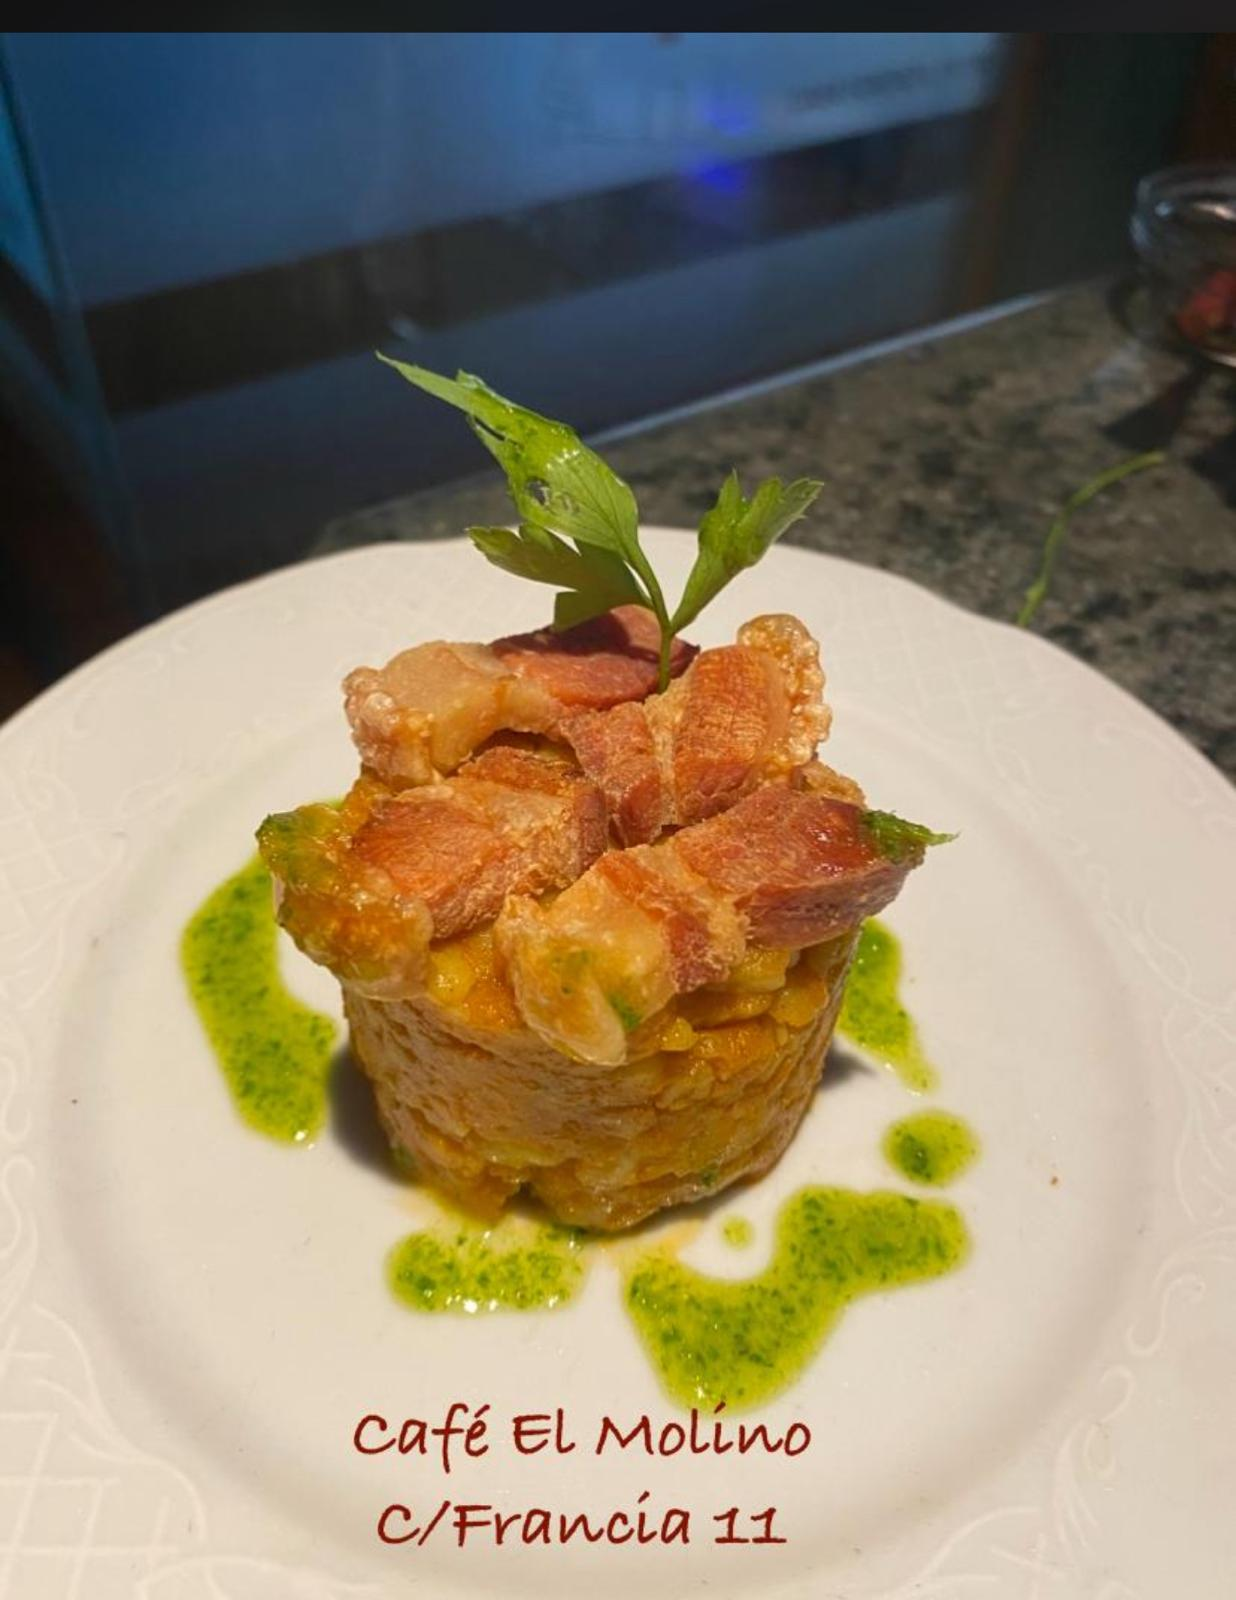
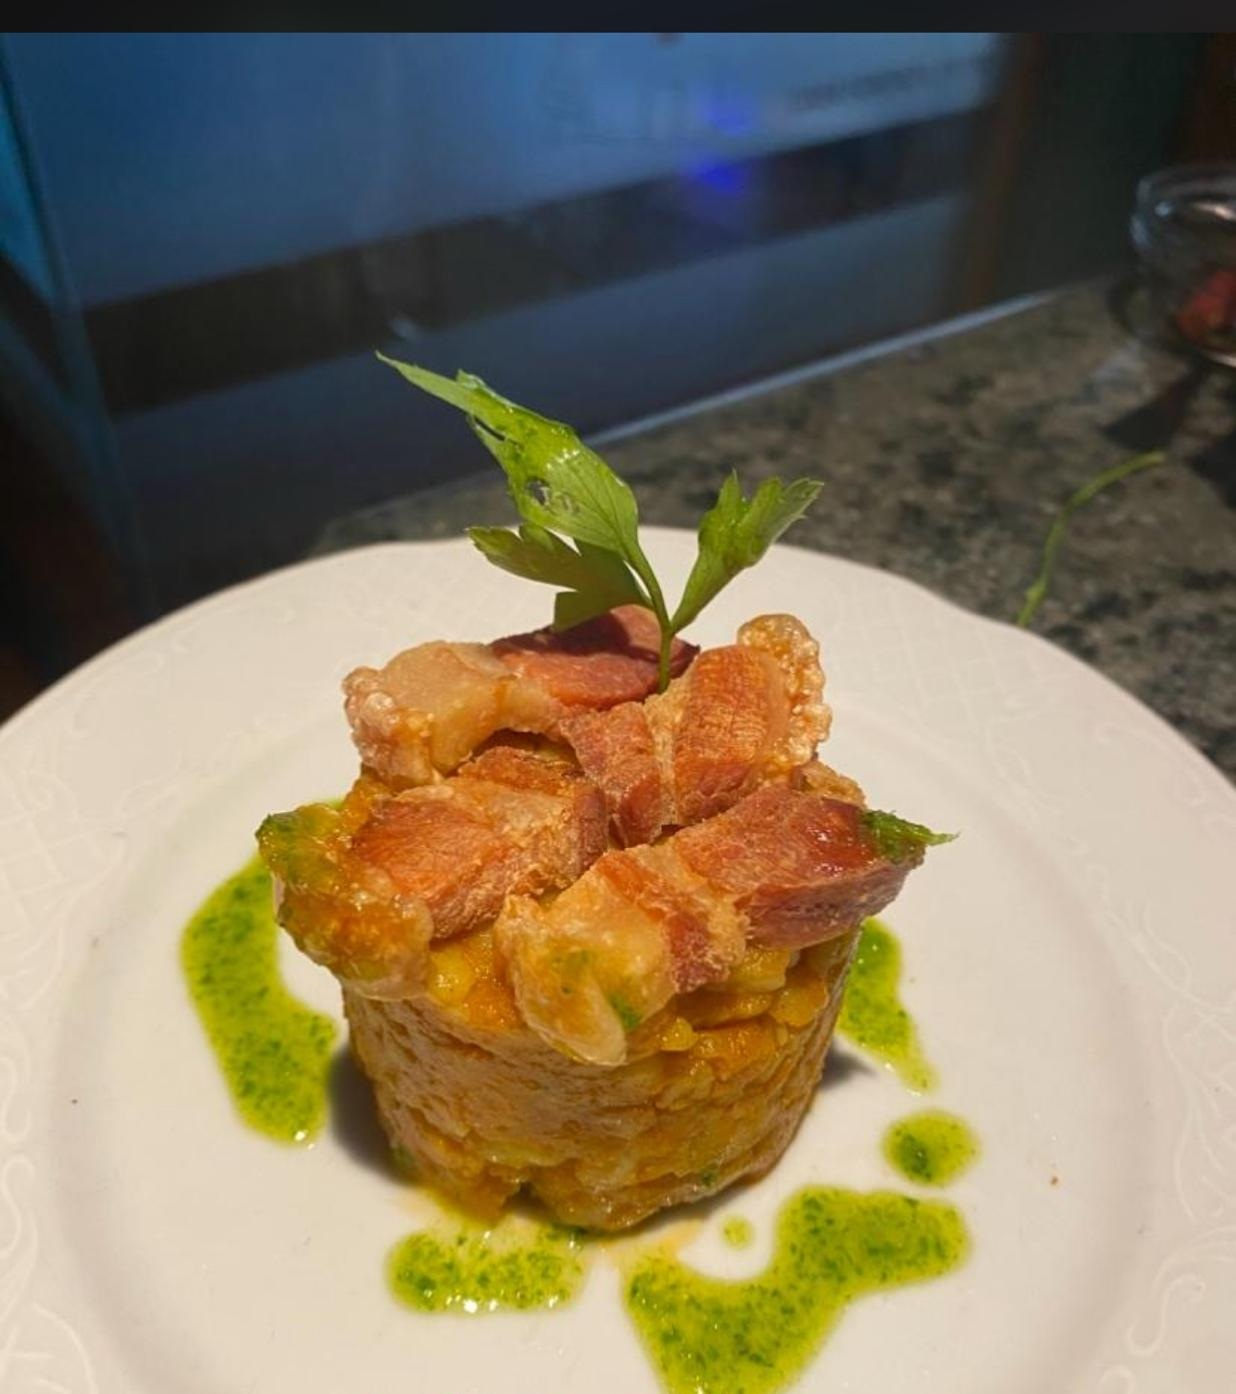
feat: implement SafeImage component with automatic fallback error handling to prevent broken image crashes

diff --git a/src/components/SafeImage.tsx b/src/components/SafeImage.tsx
@@ -1,0 +1,38 @@
+import { useState, ImgHTMLAttributes } from "react";
+import fallbackLogo from "@/assets/nuevas-fotos/WhatsApp Image 2026-07-16 at 14.41.48 (3).jpeg";
+
+interface SafeImageProps extends ImgHTMLAttributes<HTMLImageElement> {
+  fallbackSrc?: string;
+}
+
+export function SafeImage({
+  src,
+  alt = "Cafetería El Molino",
+  fallbackSrc,
+  className = "",
+  onError,
+  ...props
+}: SafeImageProps) {
+  const [imgSrc, setImgSrc] = useState<string>(src || fallbackSrc || fallbackLogo);
+  const [hasError, setHasError] = useState(false);
+
+  const handleError = (e: React.SyntheticEvent<HTMLImageElement, Event>) => {
+    if (!hasError) {
+      setHasError(true);
+      setImgSrc(fallbackSrc || fallbackLogo);
+    }
+    if (onError) {
+      onError(e);
+    }
+  };
+
+  return (
+    <img
+      src={imgSrc || fallbackLogo}
+      alt={alt}
+      onError={handleError}
+      className={className}
+      {...props}
+    />
+  );
+}

diff --git a/src/routes/galeria.tsx b/src/routes/galeria.tsx
@@ -8,6 +8,7 @@ import {
   Camera
 } from "lucide-react";
 import { Reveal } from "@/components/Reveal";
+import { SafeImage } from "@/components/SafeImage";
 
 // Importación de assets locales
 import realVideo from "@/assets/nuevas-fotos/WhatsApp Video 2026-07-16 at 14.51.56.mp4";
@@ -376,16 +377,7 @@ const mediaItems: MediaItem[] = [
     category: "equipo",
     src: realImg_33,
     aspectRatio: "aspect-[4/3]",
-  },
-  {
-    id: "img-35",
-    title: "Catering y Celebraciones",
-    description: "Salón preparado para cumpleaños y eventos privados.",
-    type: "image",
-    category: "eventos",
-    src: realImg_34,
-    aspectRatio: "aspect-[4/3]",
-  },
+  }
 ];
 
 // Categorías del sistema de filtros
@@ -485,7 +477,7 @@ function GalleryPage() {
                 className="relative h-[320px] sm:h-[380px] w-full max-w-[500px] rounded-2xl overflow-hidden border border-border shadow-inner select-none cursor-ew-resize"
               >
                 {/* Imagen Después */}
-                <img 
+                <SafeImage 
                   src={tortillaReal} 
                   alt="" 
                   draggable={false}
@@ -497,7 +489,7 @@ function GalleryPage() {
                   className="absolute inset-0 overflow-hidden pointer-events-none select-none"
                   style={{ width: `${sliderPosition}%` }}
                 >
-                  <img 
+                  <SafeImage 
                     src="https://images.unsplash.com/photo-1518977676601-b53f82aba655?auto=format&fit=crop&w=800&q=80" 
                     alt="" 
                     draggable={false}
@@ -559,7 +551,7 @@ function GalleryPage() {
                         {item.type === "video" ? (
                           <video src={item.src} playsInline autoPlay loop muted className="absolute inset-0 h-full w-full object-cover select-none pointer-events-none" />
                         ) : (
-                          <img src={item.src} alt="" loading="lazy" draggable={false} className="absolute inset-0 h-full w-full object-cover select-none pointer-events-none" />
+                          <SafeImage src={item.src} alt="" loading="lazy" draggable={false} className="absolute inset-0 h-full w-full object-cover select-none pointer-events-none" />
                         )}
                       </div>
                     </div>
@@ -576,7 +568,7 @@ function GalleryPage() {
                         {item.type === "video" ? (
                           <video src={item.src} playsInline autoPlay loop muted className="absolute inset-0 h-full w-full object-cover select-none pointer-events-none" />
                         ) : (
-                          <img src={item.src} alt="" loading="lazy" draggable={false} className="absolute inset-0 h-full w-full object-cover select-none pointer-events-none" />
+                          <SafeImage src={item.src} alt="" loading="lazy" draggable={false} className="absolute inset-0 h-full w-full object-cover select-none pointer-events-none" />
                         )}
                       </div>
                     </div>
@@ -593,7 +585,7 @@ function GalleryPage() {
                         {item.type === "video" ? (
                           <video src={item.src} playsInline autoPlay loop muted className="absolute inset-0 h-full w-full object-cover select-none pointer-events-none" />
                         ) : (
-                          <img src={item.src} alt="" loading="lazy" draggable={false} className="absolute inset-0 h-full w-full object-cover select-none pointer-events-none" />
+                          <SafeImage src={item.src} alt="" loading="lazy" draggable={false} className="absolute inset-0 h-full w-full object-cover select-none pointer-events-none" />
                         )}
                       </div>
                     </div>
@@ -610,7 +602,7 @@ function GalleryPage() {
                         {item.type === "video" ? (
                           <video src={item.src} playsInline autoPlay loop muted className="absolute inset-0 h-full w-full object-cover select-none pointer-events-none" />
                         ) : (
-                          <img src={item.src} alt="" loading="lazy" draggable={false} className="absolute inset-0 h-full w-full object-cover select-none pointer-events-none" />
+                          <SafeImage src={item.src} alt="" loading="lazy" draggable={false} className="absolute inset-0 h-full w-full object-cover select-none pointer-events-none" />
                         )}
                       </div>
                     </div>

diff --git a/src/routes/desayunos.tsx b/src/routes/desayunos.tsx
@@ -20,6 +20,7 @@ import flyer6 from "@/assets/desayuno-flyers/WhatsApp Image 2026-07-16 at 14.44.
 
 import { Reveal } from "@/components/Reveal";
 import { AddToCartButton } from "@/components/AddToCartButton";
+import { SafeImage } from "@/components/SafeImage";
 
 export const Route = createFileRoute("/desayunos")({
   head: () => ({
@@ -166,7 +167,7 @@ function Desayunos() {
     <>
       {/* HERO */}
       <section className="relative pt-40 pb-20 overflow-hidden">
-        <img src={imgChurros} alt="" aria-hidden loading="lazy" className="absolute inset-0 h-full w-full object-cover opacity-25" />
+        <SafeImage src={imgChurros} alt="" aria-hidden loading="lazy" className="absolute inset-0 h-full w-full object-cover opacity-25" />
         <div className="absolute inset-0 bg-gradient-to-b from-carbon/70 via-carbon/85 to-background" />
         <div className="relative mx-auto max-w-6xl px-6 grid gap-12 lg:grid-cols-2 lg:items-center">
           <Reveal>
@@ -192,7 +193,7 @@ function Desayunos() {
           </Reveal>
           <Reveal delay={0.15}>
             <div className="overflow-hidden rounded-2xl border border-white/10 shadow-2xl">
-              <img src={imgAmericano} alt="Desayuno Americano en Cafetería El Molino" loading="lazy" className="h-[460px] w-full object-cover" />
+              <SafeImage src={imgAmericano} alt="Desayuno Americano en Cafetería El Molino" loading="lazy" className="h-[460px] w-full object-cover" />
             </div>
           </Reveal>
         </div>
@@ -212,7 +213,7 @@ function Desayunos() {
               <Reveal key={it.id} delay={i * 0.04}>
                 <article className="card-dark overflow-hidden group border border-border/60 hover:border-gold/50 transition-all duration-300 flex flex-col h-full">
                   <div className="relative h-56 overflow-hidden">
-                    <img
+                    <SafeImage
                       src={it.img}
                       alt={it.name}
                       loading="lazy"
@@ -264,7 +265,7 @@ function Desayunos() {
               onClick={() => setSelectedFlyer(fl.img)}
               className="relative w-40 sm:w-48 md:w-52 shrink-0 rounded-xl overflow-hidden border border-white/15 bg-carbon cursor-pointer shadow-lg transition-transform duration-300 hover:scale-105 group"
             >
-              <img
+              <SafeImage
                 src={fl.img}
                 alt={fl.title}
                 loading="lazy"
@@ -288,7 +289,7 @@ function Desayunos() {
               <Reveal key={it.id} delay={i * 0.04}>
                 <article className="card-dark overflow-hidden group border border-border/60 hover:border-gold/50 transition-all duration-300 flex flex-col h-full">
                   <div className="relative h-56 overflow-hidden">
-                    <img
+                    <SafeImage
                       src={it.img}
                       alt={it.name}
                       loading="lazy"
@@ -344,7 +345,7 @@ function Desayunos() {
           >
             <X size={26} />
           </button>
-          <img
+          <SafeImage
             src={selectedFlyer}
             alt="Flyer promocional"
             className="max-h-[90vh] max-w-[90vw] object-contain rounded-xl shadow-2xl border border-white/20"